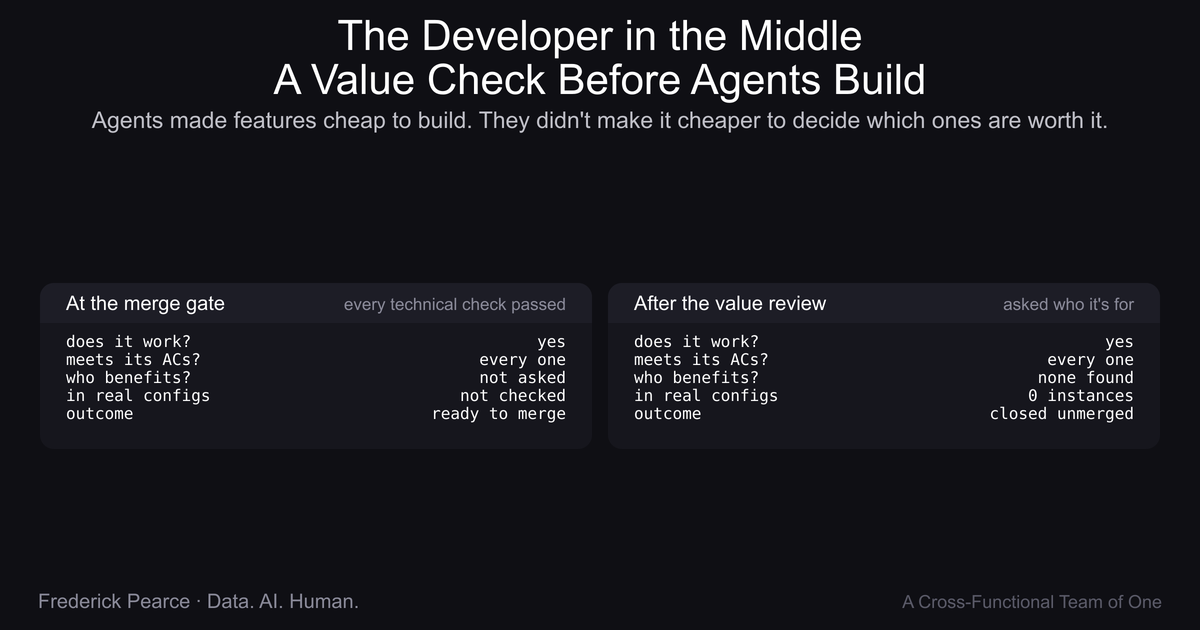
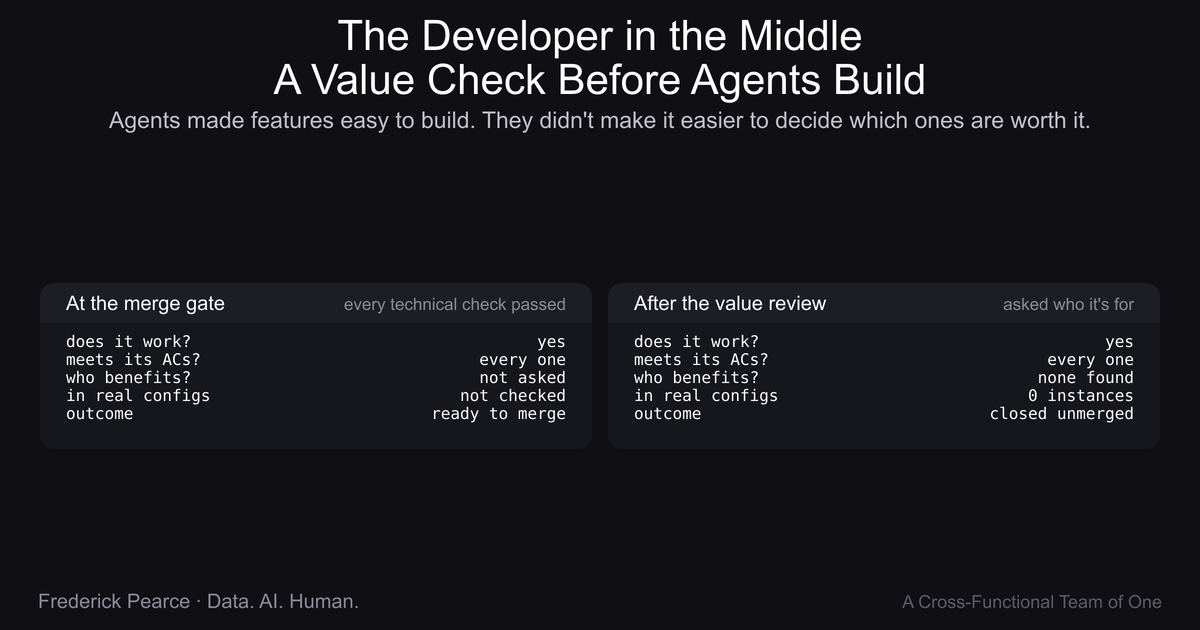
post: say agents made features easy to build, not cheap
"Cheap" invites the agent-cost debate the post doesn't take up; "easy"
is the claim it can stand behind. Changes Post 2's opening paragraph and
the OG card subhead, and re-renders the card.

Claude-Session: https://claude.ai/code/session_013D8kxd9nhc3oUZN2p3pwB3

Changed region(s): [[0.0617, 0.181, 0.925, 0.2111]]

diff --git a/posts/2026-11-10-the-developer-in-the-middle.md b/posts/2026-11-10-the-developer-in-the-middle.md
@@ -13,7 +13,7 @@ humanizer_pass: v3.0.0
 claims_verified: 2026-11-10
 ---
 
-Coding agents produce more code than anyone can comfortably review, and most of the review goes to whether it works, not whether it's needed. Agents have made features cheap to build, but they haven't made it cheaper to decide which ones are worth building. A feature nobody needs still costs something to build, and more to maintain or remove later.
+Coding agents produce more code than anyone can comfortably review, and most of the review goes to whether it works, not whether it's needed. Agents have made features easy to build, but they haven't made it easier to decide which ones are worth building. A feature nobody needs still costs something to build, and more to maintain or remove later.
 
 I recently almost merged a feature that had passed every technical check in my setup: the architect's review, the code review, and the check against its acceptance criteria. Then I reviewed the source it was based on and asked a question none of those checks asks: how would a user benefit from this? A value review by my pm agent found no user it would help, and a check against real configurations found nothing for it to catch. I closed the pull request unmerged.
 
